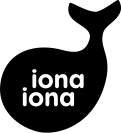
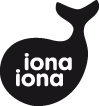
CSS refactor 3.3

diff --git a/src/IonaIona/PageBundle/Resources/public/css/main.css b/src/IonaIona/PageBundle/Resources/public/css/main.css
@@ -154,12 +154,12 @@ header div.constrictor.clearfix h1.invisible {
 
 header div.constrictor.clearfix h2 {
     float: right;
-    margin-top: 86px;
+    margin-top: 60px;
     font-size: 1.3em;
 }
 
 header div.constrictor.clearfix a img {
-    margin-bottom: 10px;
+    margin-bottom: 16px;
 }
 
 header div.constrictor.clearfix ul {
